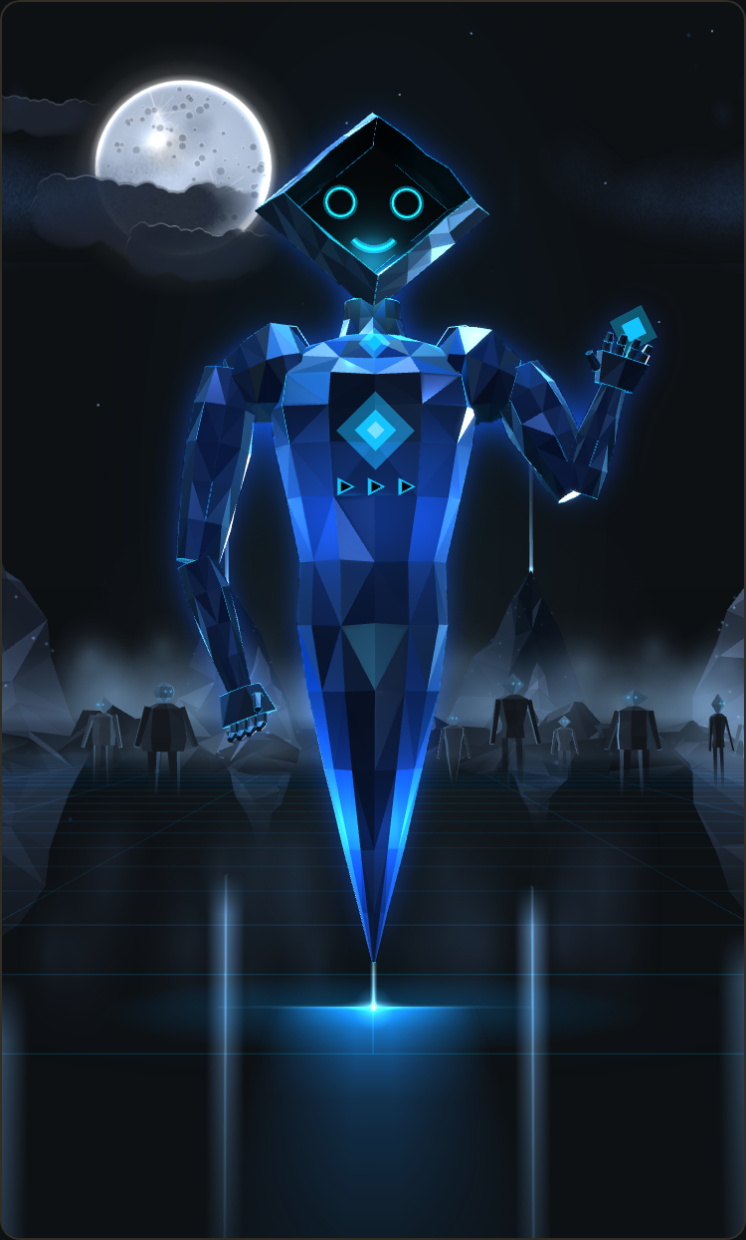
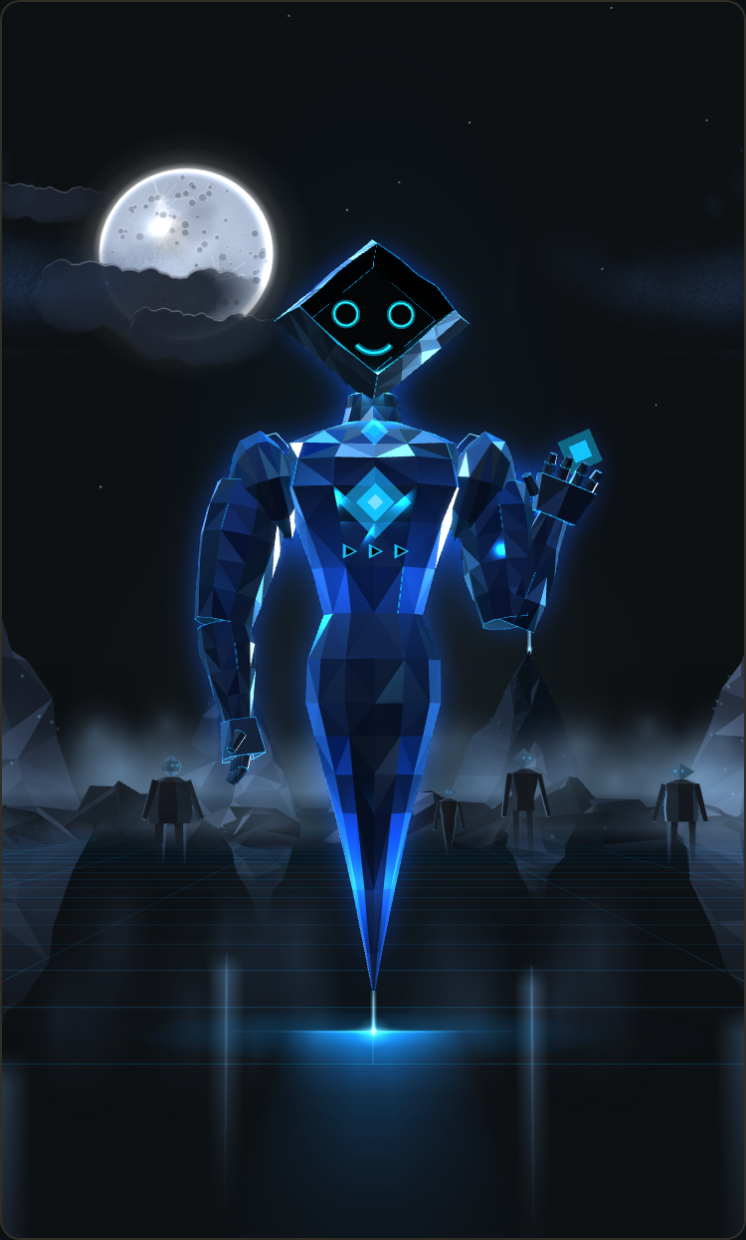
mrmah3d R95-BB: cleaner world for the bodybuilder brief, lamps that stop at their subject, required outputs
After the r95/world merge: the cast cut from eight figures to five (varied
bodies and heads kept), the beacons' wet-floor mirrors halved in length and
dimmed so they no longer stand as poles in the foreground, the range check
re-based on the bodybuilder reference's near-black pyramids. Every point
light isolated in turn against the blobs it drew — the floor bounce on the
back of the hand, the face lamp on the back of the head in rear views — and
each cut to the reach of its own subject. Verifier 150/150, static suite
271/271, 103 draws / 8,830 tris at tier high. The §34 output set is in
validation/mrmah3d/r95bb/.

Claude-Session: https://claude.ai/code/session_01PFdimckBkTJSzz58pBNFUm

diff --git a/mrmah3d/core/lights.js b/mrmah3d/core/lights.js
@@ -79,7 +79,14 @@ export function createLights(options) {
   /* Floor bounce: the grid is a light source in the reference, and a point
      light low and in front sells the character standing IN the world rather
      than composited over it. */
-  var bounce = new PointLight(new Color(0x2fbfe8), 0.85, 9, 2);
+  /* R95-BB: range 9 -> 2.0. The bounce reached the whole character, and on
+     any plane facing the camera and tilted down — the back of the lowered
+     hand, the lower back of the head when he is turned — it drew its specular
+     as a cyan blob (matched by colour: 0x2fbfe8, not the chest lamp's
+     0x4fe3ff). Its job is the lower body standing in the floor glow, which is
+     within 1.7 of it; the chest at 2.05 and the head at 2.5 now take nothing.
+     Intensity up a little to hold the quad where it was under the falloff. */
+  var bounce = new PointLight(new Color(0x2fbfe8), 1.05, 2.0, 2);
   bounce.position.set(0, 0.28, 1.5);
 
   /* R91 — HIS OWN EMISSIONS LIGHT THE SURFACES AROUND THEM.
@@ -118,13 +125,26 @@ export function createLights(options) {
   /* R95-BB: range 2.4 -> 1.3. At 2.4 the lamp reached the lowered hand (1.36
      away) and drew its specular on the back of the hand as a hot cyan blob;
      the chest it exists for is 0.8-0.9 away and still inside the falloff. */
-  var chestLamp = new PointLight(new Color(0x4fe3ff), 1.05, 1.3, 2);
-  chestLamp.position.set(0, 1.80, 1.10);
+  /* And again for the REAR views: turned away (the rear three-quarter output,
+     or any drag past 120 degrees) the back of the head and the tricep of the
+     raised arm came within 1.0-1.1 of a lamp standing 1.1 units in front of
+     the chest and each drew its specular as a cyan blob. Closer to the chest
+     wall with a shorter reach, and dimmer to match the inverse square: the
+     sternum still takes 0.64 of the lamp at 0.6 away, the turned head's back
+     at 0.89 takes nothing. */
+  var chestLamp = new PointLight(new Color(0x4fe3ff), 0.62, 0.9, 2);
+  chestLamp.position.set(0, 1.80, 0.85);
   /* R95: range 1.1 -> 0.5. Reviewed, the face lamp reached the shoulder line
      half a unit below the head and drew pinpoint white speculars across the
      crown, traps and neck. It only needs the cavity walls and bevel undersides. */
-  var faceLamp = new PointLight(new Color(0x6cebff), 0.85, 0.5, 2);
-  faceLamp.position.set(0, 2.62, 0.16);
+  /* R95-BB: range 0.5 -> 0.36, and back toward the plate. Isolated by zeroing
+     each light in turn (blobprobe): the cyan blob on the lower back of the
+     head in every rear view was THIS lamp — two suspects had been ruled out
+     by geometry first, wrongly; the head is small enough that a lamp inside
+     its cavity reaches its back shell at 0.35. The cavity walls at 0.28 keep
+     0.4 of the lamp; the back shell at 0.30-0.35 keeps a tenth or nothing. */
+  var faceLamp = new PointLight(new Color(0x6cebff), 0.85, 0.36, 2);
+  faceLamp.position.set(0, 2.62, 0.10);
 
   /* R92 — THE FLOOR UNDER THE DARKS IS SAPPHIRE, NOT VOID.
 
@@ -167,8 +187,8 @@ export function createLights(options) {
     fill.intensity = 1.4 * k;
     rim.intensity = 2.2 * k;
     rim2.intensity = 1.1 * k;
-    bounce.intensity = 0.85 * k;
-    chestLamp.intensity = 1.05 * k;
+    bounce.intensity = 1.05 * k;
+    chestLamp.intensity = 0.62 * k;
     faceLamp.intensity = 0.85 * k;
   }
 
@@ -188,7 +208,7 @@ export function createLights(options) {
        into the geometry around each emitter rather than staying on it. */
     setEmissionGlow: function (g) {
       var k = Math.max(0, Number(g) || 1);
-      chestLamp.intensity = 1.05 * k;
+      chestLamp.intensity = 0.62 * k;
       faceLamp.intensity = 0.85 * k;
     }
   };

diff --git a/mrmah3d/core/figures.js b/mrmah3d/core/figures.js
@@ -157,20 +157,21 @@ var HEADS = {
    no pixel under 32 — a pale cut-out, whatever its own tone. The references
    put their figures at the mist's near edge with the bank BEHIND them, which
    is where these now stand, scaled down for the nearer depth. */
+/* R95-BB (brief §28): FEWER figures. The bodybuilder brief asks for a
+   cleaner background — "do not fill every region with rocks, particles,
+   people" — and a small cast with varied head shapes. Eight along the horizon
+   read as a crowd lined up behind him; five, spread wider and with every body
+   and head type still represented, read as a few distant others. */
 var CAST = [
-  { x: 1.8, z: -18.8, s: 0.50, yaw: 0.25, body: 'athletic', head: 'diamond' },
-  { x: 3.2, z: -17.6, s: 0.44, yaw: -0.35, body: 'heavy', head: 'wide' },
-  { x: 4.5, z: -19.2, s: 0.40, yaw: 0.40, body: 'thin', head: 'tall' },
-  { x: 1.1, z: -20.4, s: 0.34, yaw: 0.05, body: 'taper', head: 'diamond' },
-  { x: 5.3, z: -21.0, s: 0.36, yaw: -0.2, body: 'stocky', head: 'wide' },
-  { x: 2.9, z: -23.5, s: 0.32, yaw: 0.10, body: 'athletic', head: 'diamond' },
-  /* The two on his left. Measured to the frame: in showcase the obese one
-     clears his hanging hand (0.29 across) by 0.015 and in protocol the soft
-     one clears his taper's edge (0.39) by 0.04. A third figure further left
-     (x -5) landed ON that edge in protocol and had no clear position in
-     every mode, so the cast is seven and one, not six and two. */
-  { x: -2.6, z: -18.0, s: 0.46, yaw: 0.45, body: 'obese', head: 'round' },
-  { x: -3.7, z: -20.6, s: 0.42, yaw: -0.25, body: 'soft', head: 'diamond' }
+  { x: 2.0, z: -18.8, s: 0.50, yaw: 0.25, body: 'athletic', head: 'diamond' },
+  { x: 3.9, z: -17.6, s: 0.44, yaw: -0.35, body: 'heavy', head: 'wide' },
+  { x: 5.6, z: -20.2, s: 0.40, yaw: 0.40, body: 'thin', head: 'tall' },
+  { x: 1.1, z: -21.4, s: 0.34, yaw: 0.05, body: 'taper', head: 'diamond' },
+  /* The one on his left. Measured to the frame: in showcase the obese one
+     clears his hanging hand (0.29 across) by 0.015. A second further left
+     (x -5) landed on his taper's edge in protocol and had no clear position
+     in every mode. */
+  { x: -2.6, z: -18.0, s: 0.46, yaw: 0.45, body: 'obese', head: 'round' }
 ];
 
 function prng(seed) {

diff --git a/mrmah3d/core/terrain.js b/mrmah3d/core/terrain.js
@@ -505,9 +505,15 @@ function buildBeamMirror(summits, smear) {
      soft-sided, and run the whole floor toward the viewer — a wet surface
      stretches a reflection along the line of sight. So: 2.4 wide, 3.2x the
      height, and the smear's soft sides have room to be soft. */
+  /* R95-BB (brief §27): SHORTER AND DIMMER. At 3.2x the height and 0.68 the
+     two near mirrors ran from the horizon to the bottom of the canonical
+     frame as a pair of bright poles standing in the foreground either side of
+     him — "beams" the bodybuilder brief says not to fill the floor with. The
+     bodybuilder reference's wet floor gives the beacons back as SHORT faint
+     smears just under the horizon that dissolve within a few units. */
   summits.forEach(function (s) {
     var w = s.far ? 1.6 : 2.4;
-    var h = s.h * 3.2;
+    var h = s.h * 1.7;
     quad(s.x, -(s.y - 0.6), s.z, w, h, 0);
     quad(s.x, -(s.y - 0.6), s.z, w, h, 1);
   });
@@ -515,7 +521,7 @@ function buildBeamMirror(summits, smear) {
   geo.setAttribute('position', new Float32BufferAttribute(pos, 3));
   geo.setAttribute('uv', new Float32BufferAttribute(uv, 2));
   var mat = new MeshBasicMaterial({
-    map: smear, color: srgb(176, 212, 240), transparent: true, opacity: 0.68,
+    map: smear, color: srgb(176, 212, 240), transparent: true, opacity: 0.42,
     blending: AdditiveBlending, depthWrite: false, toneMapped: false,
     side: DoubleSide, fog: false
   });

diff --git a/tests/mrmah3d.test.js b/tests/mrmah3d.test.js
@@ -550,7 +550,9 @@ ok('DOC-claude-md', exists('CLAUDE.md'));
   ok('R95-WORLD-figures-never-fogged', (figures.match(/fog:\s*false/g) || []).length >= 2 && !/fog:\s*true/.test(figures));
   ok('R95-WORLD-figures-faces-wound-outward', /if \(n\.dot\(outv\) < 0\)/.test(figures));
   const cast = (figures.match(/\{ x: -?[\d.]+, z: -[\d.]+, s: 0\.\d+, yaw: -?[\d.]+, body: '\w+', head: '\w+' \}/g) || []);
-  ok('R95-WORLD-figures-cast-is-six-to-nine', cast.length >= 6 && cast.length <= 9, cast.length + ' figures');
+  /* R95-BB: four to seven. The bodybuilder brief asks for FEWER figures and a
+     cleaner background; eight in a row read as a crowd. */
+  ok('R95-WORLD-figures-cast-is-four-to-seven', cast.length >= 4 && cast.length <= 7, cast.length + ' figures');
   ok('R95-WORLD-figures-scaled-to-his-height', cast.every(c => { const s = Number(c.match(/s: (0\.\d+)/)[1]); return s >= 0.30 && s <= 0.60; }));
   ok('R95-WORLD-figures-stand-behind-him', cast.every(c => { const z = Number(c.match(/z: (-[\d.]+)/)[1]); return z <= -16 && z >= -36; }));
   ok('R95-WORLD-figures-vary-in-body', new Set(cast.map(c => c.match(/body: '(\w+)'/)[1])).size >= 5 &&

diff --git a/CLAUDE.md b/CLAUDE.md
@@ -256,7 +256,9 @@ must not be claimed from headless runs.
 | `mrmah3d/core/surfaces.js` | page events -> character states (the only file naming a MAHFITT page) |
 | `mrmah3d/core/character/` | the character: proportions, forge, materials, head, body, limbs, states |
 | `mrmah3d/core/character/regions.js` | per-region optical class tables (head, neck, pecs, sternum, abs, obliques, taper, deltoids, arms, hands) |
-| `mrmah3d/core/terrain.js` | the faceted gunmetal range: three depth layers, beacons, sparkles, the mirrored range in the floor |
+| `mrmah3d/core/terrain.js` | the faceted gunmetal range: three depth layers, beacons, sparkles, the mirrored range and beam smears in the floor |
+| `mrmah3d/core/moon.js` | the large cratered moon and the cumulus that crosses it (R95 world) |
+| `mrmah3d/core/figures.js` | the small distant Mr.Mah variant figures — five, baked vertex colour, two draws (R95 world; cut from eight for the bodybuilder brief) |
 | `mrmah3d/lab/` | the development-only laboratory page |
 | `mrmah3d/vendor/three/` | pinned Three.js (MIT) |
 | `reference/mrmah-canonical-front.png` | the MEASUREMENT baseline — do not swap |
@@ -860,12 +862,16 @@ from any three-quarter view. So the shoulder joint sits ON the deltoid's axis at
 the cap's outer end is choked to 0.45 of the arm's radius. Check both discs
 against both tubes before blaming a light for a bright wedge on a shoulder.
 
-### A hot blob on a flat plane is a point light, and not always the nearest one
+### A hot blob on a flat plane is a point light — ISOLATE it, do not reason it
 
 The lowered hand carried a soft cyan blob on the back of the hand through
-several passes. The chest lamp was the obvious suspect and its range was cut
-first; the blob stayed. It was the FLOOR BOUNCE (0x2fbfe8, range 9) reflecting
-off a 0.085-roughness plane facing the camera. Matching the colour of the blob
-to the colour of each light settles this in one look — the lamp is 0x4fe3ff,
-the bounce is 0x2fbfe8 — and the fix belongs on the surface (the hands are matte
-steel in every reference), not on a light the whole body needs.
+several passes, and the back of the head carried one in every rear view. Both
+were argued from geometry first — the chest lamp's range was cut, then the
+lamp moved, then the floor bounce's range was cut — and each argument was
+plausible and the blob stayed. What settled both in one run was zeroing every
+light in `parts.lights.all` in turn and reading the box's max luma
+(`blobprobe.mjs` in the scratch tools): the hand's was the floor bounce, the
+head's was the FACE LAMP, whose 0.5 range reached the head's back shell from
+inside its cavity. A point light's specular does not care which way you think
+a facet faces. Fix the surface where a reference says it is matte (the hands),
+and the light's reach where it is not (the head's ice shell must stay sharp).
